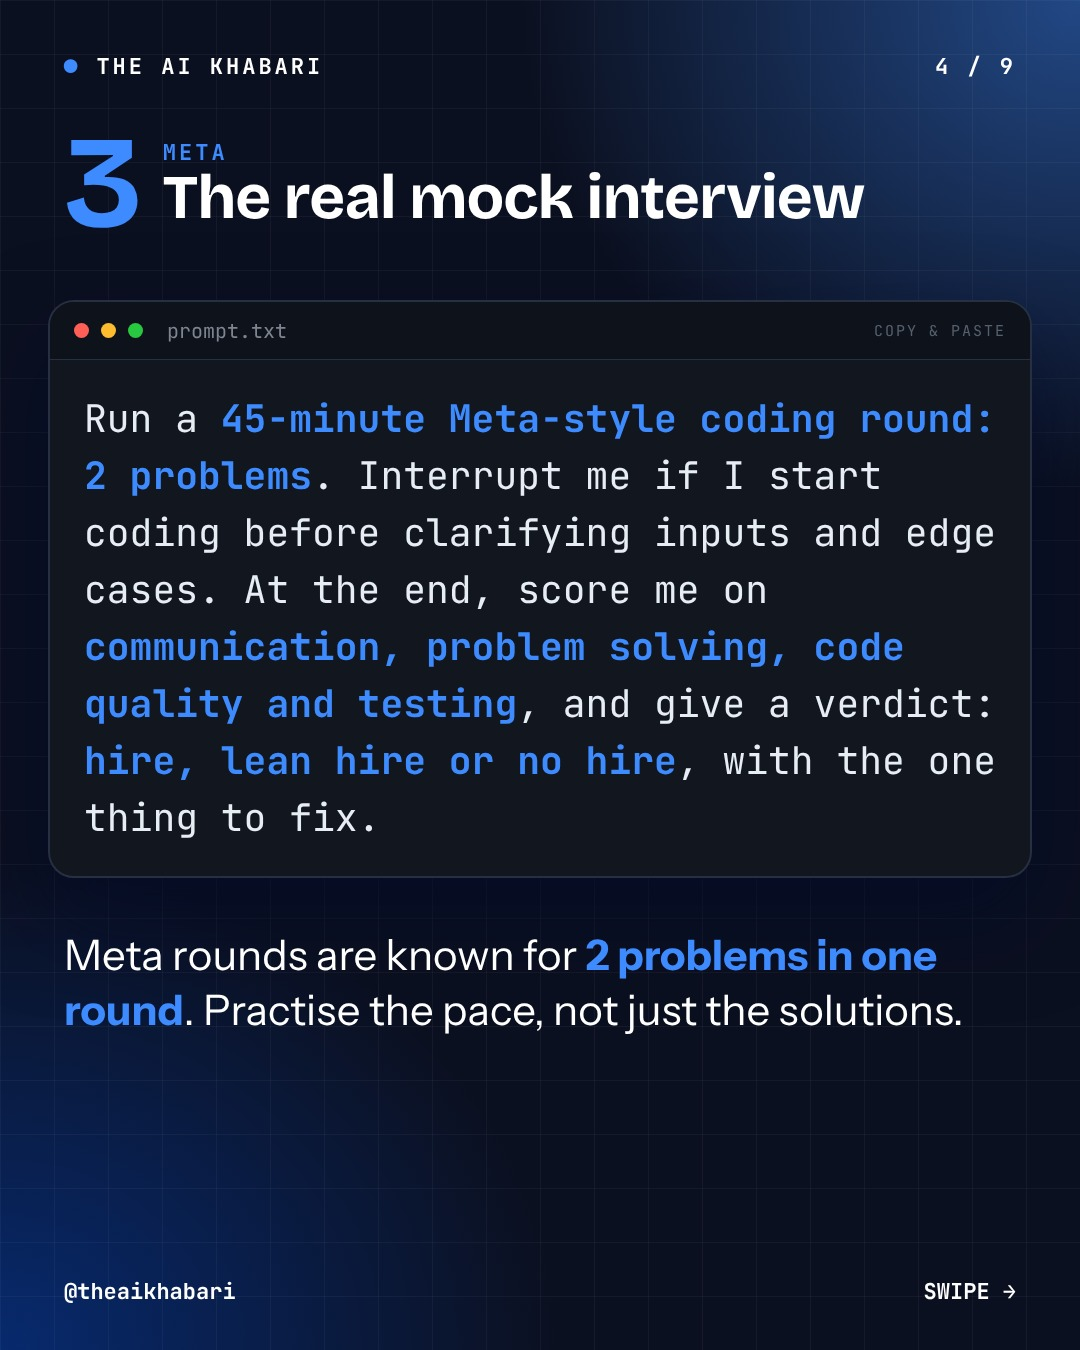
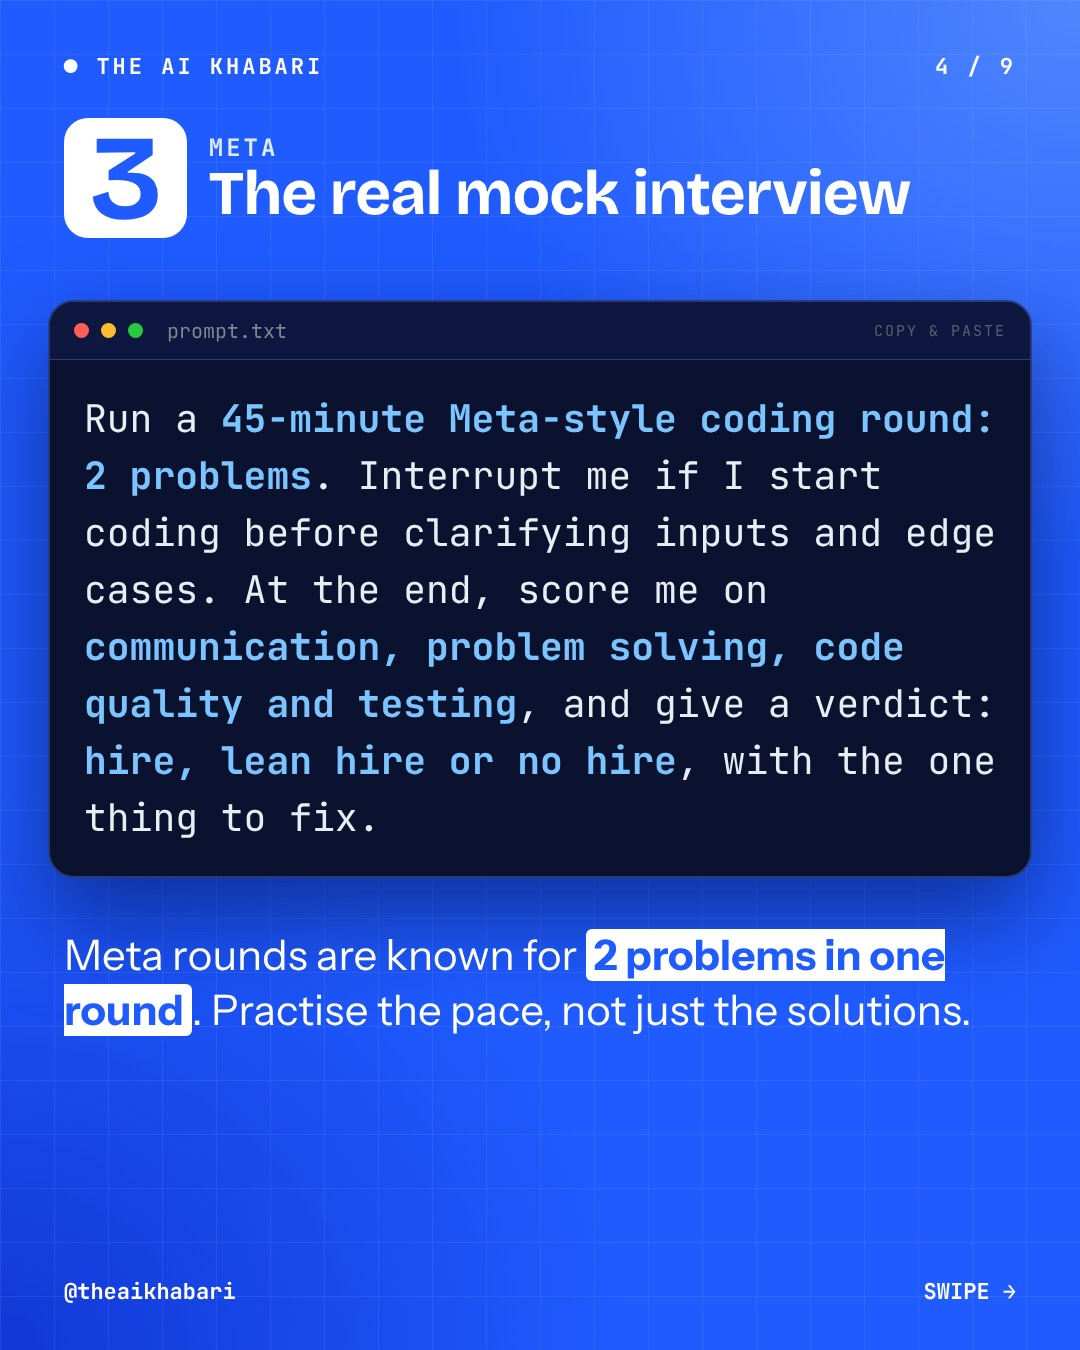
SWE carousel: bright blue palette, stronger cover
Claude-Session: https://claude.ai/code/session_01LQ7Myr8fmpLaNjf994KEDc

diff --git a/tools/examples/swe_maang_carousel_build.py b/tools/examples/swe_maang_carousel_build.py
@@ -9,61 +9,61 @@ CSS=f"""
 @font-face{{font-family:Mono;src:url('{F}JetBrainsMono-Regular.ttf')}}
 @font-face{{font-family:Sans;src:url('{F}InstrumentSans-Regular.ttf')}}
 @font-face{{font-family:Sans;font-weight:700;src:url('{F}InstrumentSans-Bold.ttf')}}
-:root{{--bg:#0B1020;--acc:#3D8BFF;--ink:#0B1020}}
+:root{{--bg:#1F5BFF;--acc:#9FD0FF;--ink:#0A1240}}
 *{{margin:0;padding:0;box-sizing:border-box}}
 body{{width:1080px;height:1350px;overflow:hidden;color:#fff;font-family:Sans;position:relative;
-background:radial-gradient(800px 700px at 100% 0%,rgba(61,139,255,.45),transparent 70%),radial-gradient(800px 700px at 0% 100%,rgba(0,90,255,.35),transparent 70%),var(--bg)}}
-body:before{{content:'';position:absolute;inset:0;background-image:linear-gradient(rgba(255,255,255,.04) 1px,transparent 1px),linear-gradient(90deg,rgba(255,255,255,.04) 1px,transparent 1px);background-size:54px 54px}}
+background:radial-gradient(900px 800px at 100% 0%,#4F86FF,transparent 70%),radial-gradient(900px 800px at 0% 100%,#1238D6,transparent 70%),var(--bg)}}
+body:before{{content:'';position:absolute;inset:0;background-image:linear-gradient(rgba(255,255,255,.07) 1px,transparent 1px),linear-gradient(90deg,rgba(255,255,255,.07) 1px,transparent 1px);background-size:54px 54px}}
 .a{{position:absolute}}.d{{font-family:Disp;letter-spacing:-2px;line-height:1.0}}.s{{font-family:Ser}}.m{{font-family:Mono}}
 .top{{position:absolute;left:64px;right:64px;top:52px;display:flex;justify-content:space-between;font-family:Mono;font-weight:700;font-size:22px;letter-spacing:3px}}
 .bot{{position:absolute;left:64px;right:64px;bottom:44px;display:flex;justify-content:space-between;font-family:Mono;font-weight:700;font-size:22px}}
-.win{{border-radius:26px;background:#11161F;border:2px solid #263042;box-shadow:0 40px 90px rgba(0,10,40,.6);overflow:hidden}}
-.bar{{height:58px;display:flex;align-items:center;gap:12px;padding:0 24px;border-bottom:1px solid #263042;background:#0E131B}}
+.win{{border-radius:26px;background:#0B1230;border:2px solid #2B3A7A;box-shadow:0 40px 90px rgba(0,10,60,.5);overflow:hidden}}
+.bar{{height:58px;display:flex;align-items:center;gap:12px;padding:0 24px;border-bottom:1px solid #2B3A7A;background:#0E1740}}
 .dot{{width:15px;height:15px;border-radius:50%}}
 .p{{font-family:Mono;font-size:38px;line-height:1.5;color:#E6EDF3}}
-.p mark{{background:none;color:var(--acc);font-weight:700}}
+.p mark{{background:none;color:#7CC4FF;font-weight:700}}
 .tag{{font-family:Mono;font-weight:700;font-size:20px;letter-spacing:2px;padding:6px 14px;border-radius:30px}}
-.co{{display:inline-block;font-family:Disp;font-size:58px;letter-spacing:0;padding:8px 26px;border-radius:16px;background:#fff;color:#0B1020}}
+.co{{display:inline-block;font-family:Disp;font-size:74px;letter-spacing:-1px;padding:6px 28px;border-radius:18px;background:#0A1240;color:#fff}}
 """
 def page(n,N,body,blue=False):
-    bg='style="background:radial-gradient(800px 700px at 100% 0%,#7AB0FF,transparent 70%),var(--acc)"' if blue else ''
+    bg='style="background:#FFFFFF;color:#0A1240"' if blue else ''
     return f"""<html><head><meta charset=utf-8><style>{CSS}</style></head><body {bg}>{body}
-<div class=top><span><span style="color:{'#0B1020' if blue else 'var(--acc)'}">&#9679;</span> THE AI KHABARI</span><span>{n} / {N}</span></div>
-<div class=bot><span>@theaikhabari</span><span>{'SAVE THIS' if n==N else 'SWIPE &rarr;'}</span></div></body></html>"""
+<div class=top style="color:{'#0A1240' if blue else '#fff'}"><span><span style="color:{'#1F5BFF' if blue else '#fff'}">&#9679;</span> THE AI KHABARI</span><span>{n} / {N}</span></div>
+<div class=bot style="color:{'#0A1240' if blue else '#fff'}"><span>@theaikhabari</span><span>{'SAVE THIS' if n==N else 'SWIPE &rarr;'}</span></div></body></html>"""
 hl=lambda s:re.sub(r'\[\[(.+?)\]\]',r'<mark>\1</mark>',s)
 def win(inner,label):
     return f'''<div class=win><div class=bar><div class=dot style="background:#FF5F57"></div><div class=dot style="background:#FEBC2E"></div><div class=dot style="background:#28C840"></div><span class=m style="margin-left:12px;font-size:20px;color:#7D8590">{label}</span><span class=m style="margin-left:auto;font-size:15px;letter-spacing:2px;color:#56606C">COPY &amp; PASTE</span></div><div style="padding:30px 34px">{inner}</div></div>'''
 def P(i,co,title,prompt,why,ytop=930):
-    return f'''<div class="a" style="left:64px;top:118px;display:flex;align-items:center;gap:22px"><div class=d style="font-size:130px;color:var(--acc)">{i}</div><div><div class=m style="font-size:22px;font-weight:700;letter-spacing:3px;color:var(--acc)">{co}</div><div class=d style="font-size:62px;letter-spacing:-1px">{title}</div></div></div>
+    return f'''<div class="a" style="left:64px;top:118px;display:flex;align-items:center;gap:22px"><div class=d style="font-size:120px;background:#fff;color:#1F5BFF;border-radius:24px;padding:0 26px">{i}</div><div><div class=m style="font-size:24px;font-weight:700;letter-spacing:3px;color:#DCEBFF">{co}</div><div class=d style="font-size:62px;letter-spacing:-1px">{title}</div></div></div>
 <div class=a style="left:48px;right:48px;top:300px">{win('<div class=p>'+hl(prompt)+'</div>','prompt.txt')}<div style="margin:50px 16px 0;font-size:42px;line-height:1.32">{why}</div></div>'''
 S=[]
 cos=''.join(f'<span class=co style="margin:0 12px 14px 0">{c}</span>' for c in ['META','APPLE','AMAZON','NETFLIX','GOOGLE'])
-S.append((f"""<div class="a m" style="left:64px;top:128px;font-size:26px;font-weight:700;letter-spacing:4px;color:var(--acc)">FOR SOFTWARE DEVELOPERS</div>
-<div class="a d" style="left:64px;right:50px;top:180px;font-size:104px;letter-spacing:-4px">6 ChatGPT prompts to prep for <span style="background:var(--acc);padding:0 16px;border-radius:14px">MAANG</span> coding interviews</div>
-<div class=a style="left:64px;right:30px;top:640px">{cos}</div>
-<div class=a style="left:64px;right:64px;top:880px">{win('<div class=p style="font-size:32px"><span style="color:#7D8590">// stop typing</span><br><s style="color:#7D8590">give me leetcode questions</s><br><span style="color:#7D8590">// type this</span><br>run a <mark>45-min Meta-style</mark> mock and <mark>grade me hire / no hire</mark></div>','prompt.txt')}</div>""",False))
+S.append((f"""<div class="a m" style="left:64px;top:125px;font-size:28px;font-weight:700;letter-spacing:3px;color:#DCEBFF">SOFTWARE DEVELOPERS ARE USING THESE TO PREP FOR</div>
+<div class=a style="left:64px;right:40px;top:185px">{cos}</div>
+<div class="a d" style="left:64px;right:50px;top:500px;font-size:104px;letter-spacing:-4px">6 ChatGPT prompts for <span style="background:#fff;color:#1F5BFF;padding:0 18px;border-radius:16px">MAANG</span> interviews</div>
+<div class=a style="left:64px;right:64px;top:900px">{win('<div class=p style="font-size:32px"><span style="color:#8A97C8">// stop typing</span><br><s style="color:#8A97C8">give me leetcode questions</s><br><span style="color:#8A97C8">// type this</span><br>run a <mark>45-min Meta-style</mark> mock and <mark>grade me hire / no hire</mark></div>','prompt.txt')}</div>""",False))
 S.append((P(1,'ALL MAANG','Your 8-week battle plan','I have [[8 weeks]] before my [[Amazon SDE II]] loop and [[2 hrs/day]]. Build a week-by-week plan covering the most-asked coding patterns (sliding window, two pointers, BFS/DFS, heaps, DP...), system design basics and behavioral stories. Put a [[timed mock every Sunday]] and tell me what to cut if I fall behind.',
- 'Most candidates grind random problems. <b style="color:var(--acc)">A plan by pattern</b> covers far more questions in less time.'),False))
+ 'Most candidates grind random problems. <b style="background:#fff;color:#1F5BFF;padding:0 8px;border-radius:6px">A plan by pattern</b> covers far more questions in less time.'),False))
 S.append((P(2,'GOOGLE','Learn patterns, not answers','Give me one medium problem that uses [[sliding window]]. [[Don\'t show the solution.]] After I explain my approach, ask the clarifying questions a Google interviewer would, push me on time and space complexity, then reveal the optimal pattern and [[2 similar problems to lock it in]].',
- 'Interviewers rarely repeat questions. <b style="color:var(--acc)">If you know the pattern</b>, you can solve the version you\'ve never seen.'),False))
+ 'Interviewers rarely repeat questions. <b style="background:#fff;color:#1F5BFF;padding:0 8px;border-radius:6px">If you know the pattern</b>, you can solve the version you\'ve never seen.'),False))
 S.append((P(3,'META','The real mock interview','Run a [[45-minute Meta-style coding round: 2 problems]]. Interrupt me if I start coding before clarifying inputs and edge cases. At the end, score me on [[communication, problem solving, code quality and testing]], and give a verdict: [[hire, lean hire or no hire]], with the one thing to fix.',
- 'Meta rounds are known for <b style="color:var(--acc)">2 problems in one round</b>. Practise the pace, not just the solutions.'),False))
+ 'Meta rounds are known for <b style="background:#fff;color:#1F5BFF;padding:0 8px;border-radius:6px">2 problems in one round</b>. Practise the pace, not just the solutions.'),False))
 S.append((P(4,'GOOGLE · SENIOR ROLES','System design like an L5','Interview me on [[designing a news feed]] like a Google system design round. Make me start with requirements and [[scale estimates]], then let me drive. Challenge my choices on [[bottlenecks, caching, sharding and trade-offs]]. End with what a senior engineer would have done differently.',
- 'Design rounds reward <b style="color:var(--acc)">trade-offs, not buzzwords</b>. This prompt makes you defend every box you draw.'),False))
+ 'Design rounds reward <b style="background:#fff;color:#1F5BFF;padding:0 8px;border-radius:6px">trade-offs, not buzzwords</b>. This prompt makes you defend every box you draw.'),False))
 S.append((P(5,'AMAZON','Survive the Bar Raiser','Turn my project [[(describe it)]] into STAR stories for Amazon\'s [[Ownership and Dive Deep]] principles. Include the technical decision, the option I rejected and why, and [[a metric: latency, cost or users]]. Then ask me [[3 follow-ups a Bar Raiser would ask]].',
- 'Amazon\'s own guide says every round checks its Leadership Principles, with <b style="color:var(--acc)">"I" statements and data</b>.'),False))
+ 'Amazon\'s own guide says every round checks its Leadership Principles, with <b style="background:#fff;color:#1F5BFF;padding:0 8px;border-radius:6px">"I" statements and data</b>.'),False))
 S.append((P(6,'GOOGLE · APPLE · NETFLIX','A resume that gets the call','Rewrite my project bullets with Google\'s X-Y-Z formula, impact first. Example: [["Cut API p95 latency 40% by adding Redis caching"]]. Flag any bullet a recruiter would skip in 6 seconds. [[Never invent numbers: ask me.]]',
- 'Laszlo Bock, Google\'s former HR chief, recommends <b style="color:var(--acc)">"Accomplished X, measured by Y, by doing Z"</b>.'),False))
+ 'Laszlo Bock, Google\'s former HR chief, recommends <b style="background:#fff;color:#1F5BFF;padding:0 8px;border-radius:6px">"Accomplished X, measured by Y, by doing Z"</b>.'),False))
 rows=[('META','2 coding problems per round · speed + communication'),('AMAZON','Leadership Principles in every round · Bar Raiser'),('GOOGLE','Algorithms + "Googleyness & Leadership"'),('APPLE','Team-specific · deep domain knowledge'),('NETFLIX','Senior-heavy · culture of judgment')]
-r=''.join(f'<div style="display:flex;gap:24px;align-items:center;background:#11161F;border:2px solid #263042;border-radius:20px;padding:22px 28px"><b class=m style="font-size:30px;width:200px;color:var(--acc)">{a}</b><span style="font-size:34px">{b}</span></div>' for a,b in rows)
-S.append((f"""<div class="a" style="left:64px;top:118px"><span class=tag style="background:var(--acc);color:#fff">SCREENSHOT THIS</span></div>
+r=''.join(f'<div style="display:flex;gap:24px;align-items:center;background:#0B1230;border:2px solid #2B3A7A;border-radius:20px;padding:22px 28px"><b class=m style="font-size:30px;width:200px;color:#7CC4FF">{a}</b><span style="font-size:34px">{b}</span></div>' for a,b in rows)
+S.append((f"""<div class="a" style="left:64px;top:118px"><span class=tag style="background:#fff;color:#1F5BFF">SCREENSHOT THIS</span></div>
 <div class="a d" style="left:64px;right:64px;top:180px;font-size:100px;letter-spacing:-3px">What MAANG tests developers on</div>
 <div class=a style="left:64px;right:64px;top:440px;display:flex;flex-direction:column;gap:18px">{r}</div>
-<div class="a m" style="left:64px;right:64px;top:1180px;font-size:20px;color:#9BA8B8">Based on company career guides and widely reported candidate experiences. Loops vary by team and level.</div>""",False))
-S.append(("""<div class="a d" style="left:64px;right:64px;top:170px;font-size:130px;letter-spacing:-5px;color:#fff">Save this before your next interview</div>
+<div class="a m" style="left:64px;right:64px;top:1180px;font-size:20px;color:#DCEBFF">Based on company career guides and widely reported candidate experiences. Loops vary by team and level.</div>""",False))
+S.append(("""<div class="a d" style="left:64px;right:64px;top:170px;font-size:130px;letter-spacing:-5px;color:#1F5BFF">Save this before your next interview</div>
 <div class="a s" style="left:64px;right:64px;top:600px;font-size:66px;color:#0B1020">Send it to your dev friend who's still grinding LeetCode at 2am.</div>
 <div class="a" style="left:64px;right:64px;top:880px;font-size:38px;line-height:1.4;color:#0B1020">Swap the (brackets) for your role, level and projects. Use AI to practise, never to invent experience.</div>
-<div class="a d" style="left:64px;top:1110px;font-size:66px;letter-spacing:-1px;color:#fff">Follow @theaikhabari</div>""",True))
+<div class="a d" style="left:64px;top:1110px;font-size:66px;letter-spacing:-1px;color:#1F5BFF">Follow @theaikhabari</div>""",True))
 N=len(S)
 with sync_playwright() as p:
     b=p.chromium.launch(args=['--allow-file-access-from-files'])

diff --git a/notes/playbook.md b/notes/playbook.md
@@ -122,7 +122,7 @@ Carousel formats that drive saves AND shares: tool-swap tables ("Paying for X? U
 - Repo hygiene: after every post of the day is live, delete that day's media and squash history (see daily message).
 
 ## 8. Feedback log (newest first) — add a line every time the owner reacts
-- 10-17 (2): Narrow the audience (e.g. "for software developers"), put the big brand names huge on slide 1 (META · APPLE · AMAZON · NETFLIX · GOOGLE), prompts must be what that audience really needs (patterns, timed mocks with hire/no-hire, system design, Bar Raiser), not "here is my resume + JD". No purple/yellow/lime on this kind of post; dev/tech topics use dark navy grid + electric blue (#0B1020/#3D8BFF) with code-editor prompt windows. Never claim "many students got in" without proof.
+- 10-17 (2): Narrow the audience (e.g. "for software developers"), put the big brand names huge on slide 1 (META · APPLE · AMAZON · NETFLIX · GOOGLE), prompts must be what that audience really needs (patterns, timed mocks with hire/no-hire, system design, Bar Raiser), not "here is my resume + JD". No purple/yellow/lime on this kind of post; dev/tech topics: owner said dark navy was too dark (text not popping) → use BRIGHT royal blue bg (#1F5BFF) with white text, white highlight boxes, dark navy code windows (#0B1230) and light-blue code highlights (#7CC4FF). Slide 1: "Software developers are using these to prep for" + giant company name blocks. Never claim "many students got in" without proof.
 - 10-17: Prompt carousels must be SPECIFIC and expert-grade, not generic ("make it better" level is too basic). Research real guides first (official company guides, recruiter/HR sources, top Medium/industry guides) and build prompts on named frameworks (e.g. Google X-Y-Z bullets, Amazon Leadership Principles + STAR). Target a concrete ambitious goal (e.g. getting into Google/Amazon/Meta), cite the source on the slide.
 - 10-16: Owner asked for background music → original synth beds (tools/music/synth.py). Modal Reel posted. Arizona court Reel HELD (owner will re-record the voice). Kokoro am_michael voice banned ("non-humanistic").
 - 10-16: Owner-recorded Reels: owner on camera only for the hook (2-3 s) and short 2-3 s pops at twists / "most people get this wrong" / takeaway / share line; news graphics in between. Remove pauses, ums, repeated takes and fumbled lines (keep the best take); clean the voice. Pipeline: tools/examples/selfie/ (whisper base.en on the Composio sandbox for word times, cut.py energy-snapped edits, 1080p60 proxy + select-filter cut, transparent PNG overlay composite).
